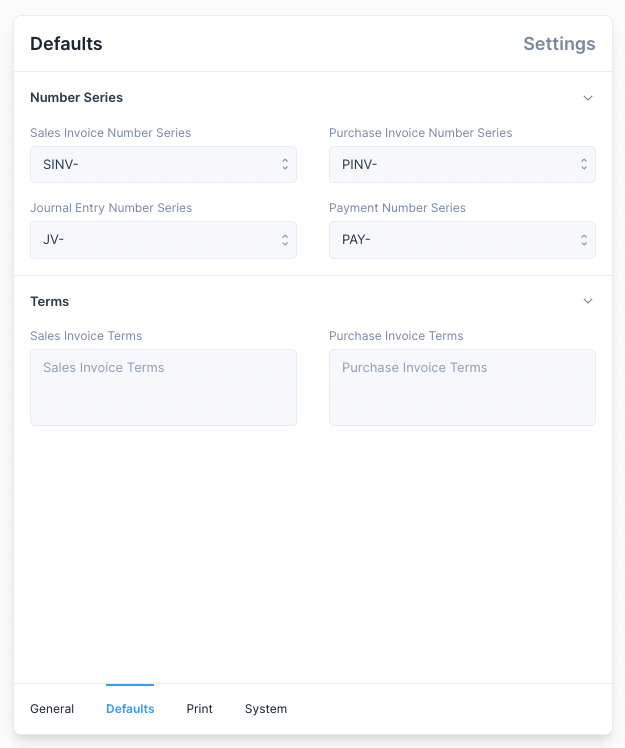
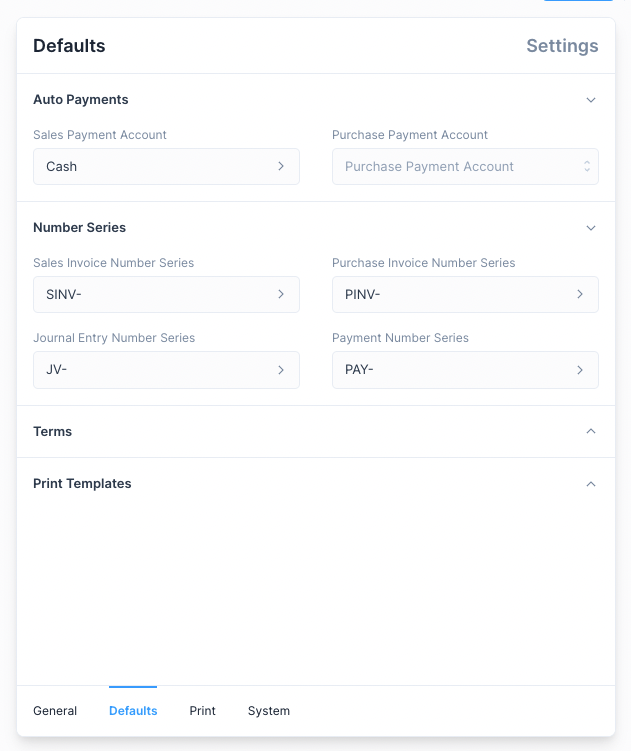
add docs for Auto Payments

diff --git a/docs/transactions/sales-invoices.md b/docs/transactions/sales-invoices.md
@@ -74,6 +74,26 @@ will be in the **Unpaid** state.
 Once the Outstanding Amount reaches 0, the status will change to **Paid**.
 :::
 
+### Auto Payments
+
+You can simplify the _Saes Invoice → Payment_ workflow by using Auto Payments.
+For this you just need to set the default accounts for Sales Payment.
+
+This can be done in `Setup > Settings > Defaults > Auto Payments`:
+![Payment Accounts](./images/payment-accounts.png)
+
+Once this is set, whenever you Submit a Sales Invoice a Payment entry will
+automatically be created.
+
+::: tip Disable Auto Payment for a Sales Invoice
+
+You can disable Auto Payment for a single Sales Invoice by unchecking the Make
+Payment On Submit check box in the Settings tab before Submitting a Sales
+Invoice entry.
+
+![Disable Auto Payment](./images/auto-payment.png)
+:::
+
 ## Printing the Sales Invoice
 
 To export the Sales Invoice as a PDF, click on the Print button next to the

diff --git a/docs/transactions/purchase-invoices.md b/docs/transactions/purchase-invoices.md
@@ -59,3 +59,23 @@ will be in the **Unpaid** state.
 
 Once the Outstanding Amount reaches 0, the status will change to **Paid**.
 :::
+
+### Auto Payments
+
+You can simplify the _Purchase Invoice → Payment_ workflow by using Auto
+Payments. For this you just need to set the default accounts for Sales Payment.
+
+This can be done in `Setup > Settings > Defaults > Auto Payments`:
+![Payment Accounts](./images/payment-accounts.png)
+
+Once this is set, whenever you Submit a Purchase Invoice a Payment entry will
+automatically be created.
+
+::: tip Disable Auto Payment for a Purchase Invoice
+
+You can disable Auto Payment for a single Purchase Invoice by unchecking the Make
+Payment On Submit check box in the Settings tab before Submitting the Purchase
+Invoice entry.
+
+![Disable Auto Payment](./images/auto-payment.png)
+:::

diff --git a/docs/miscellaneous/settings.md b/docs/miscellaneous/settings.md
@@ -51,8 +51,15 @@ Setting this value will enable the GST Reports.
 
 ![Defaults](./images/defaults.png)
 
-These settings are used to set [Number Series](/miscellaneous/number-series) and
-Terms defaults which are used when a new entry is created.
+These settings are used to set default values that are selected when creating an
+entry. They allow for quicker creation of entries but can be changed when making
+entries.
+
+The following Defaults can be set:
+1. Accounts used for Quick Payments.
+2. [Number Series](/miscellaneous/number-series) for transactional entries. 
+3. Terms to be used for certain transactional entries.
+4. [Print Templates](/miscellaneous/print-templates) to be used when printing an entry.
 
 ## Print Settings
 
